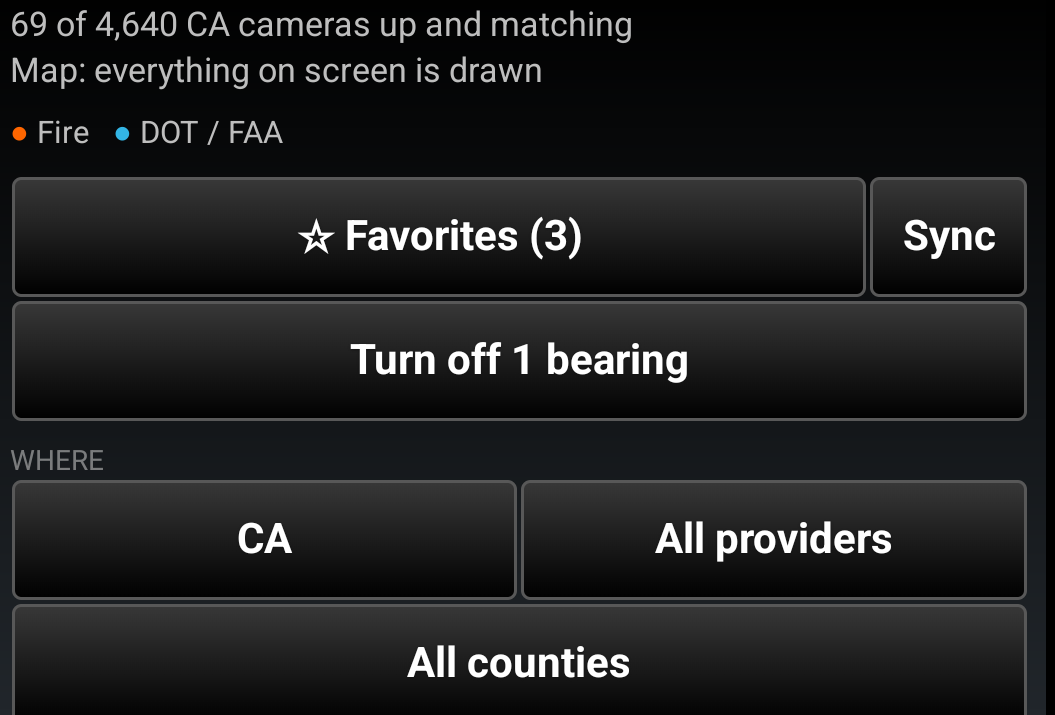
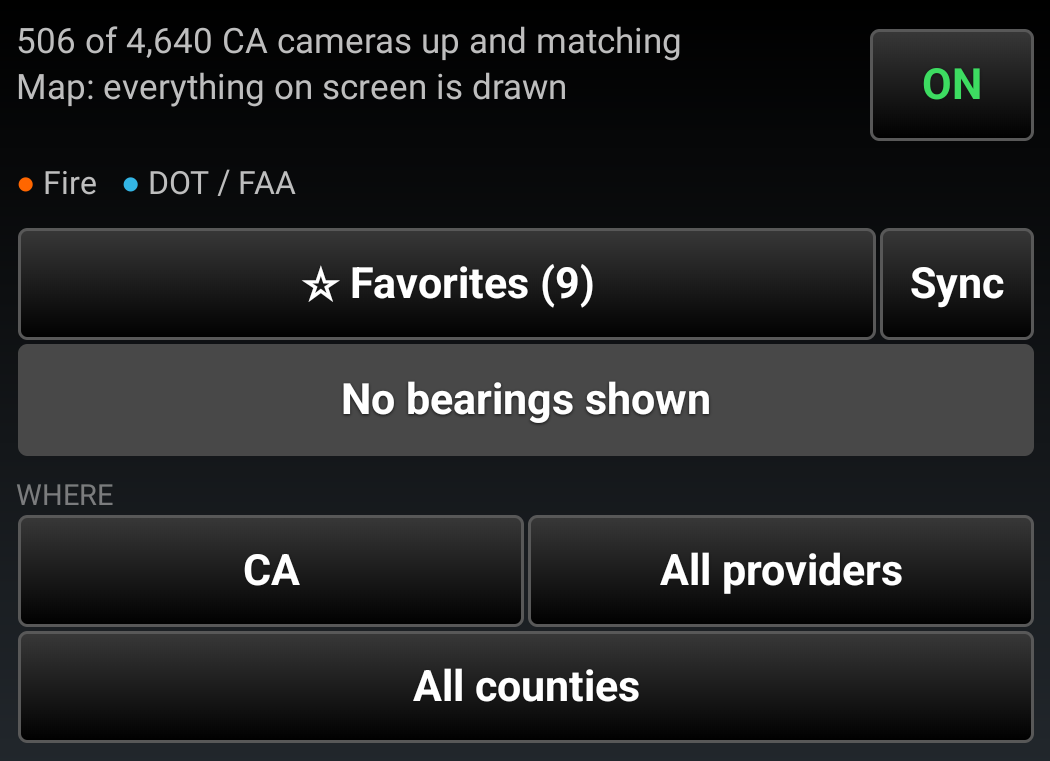
CamDepot 1.2: an ON / OFF switch for the map, pinned at the top of the pane
A button at the top right of the pane, beside the status line and outside the
list, so it never scrolls out of view the way the filter header does. ON, in
green, draws the cameras the filters select, which is how the plugin has always
behaved and is the default. OFF, in red, takes every camera off the map and
changes nothing else: filters, list and bearing requests all stay, so ON puts
back exactly what was there. Same treatment as Traffic's ON / OFF, down to the
colors.

OFF goes through the layer's viewport redraw rather than a visibility flip, so
it is the same batched path as every camera scrolling off screen at once. The
state is remembered with the other pane settings, and the status line says
"Map: off" while it is off.

Guide and manual gain an "On and off" section with two pane shots; the top-of-
panel shot is retaken with the switch in it. Version 1.2 in the README, guide,
manual and build.

diff --git a/app/src/main/java/com/atakmap/android/camdepot/ui/CamDepotPane.java b/app/src/main/java/com/atakmap/android/camdepot/ui/CamDepotPane.java
@@ -100,6 +100,19 @@ public final class CamDepotPane implements CameraStore.Listener {
     private Button radiusFromButton;
     private Button radiusPresetButton;
     private final Button bearingsOffButton;
+    /**
+     * The pinned ON / OFF toggle at the top right of the pane, beside the status
+     * line. Outside the list, so it never scrolls out of view the way the header
+     * controls do.
+     *
+     * <p>ON draws the cameras the filters select; OFF takes every one of them off
+     * the map and leaves the pane alone -- the filters, the list and the bearing
+     * requests all stay, so ON puts back exactly what was there. It is the map's
+     * switch, not the pane's, the same as Traffic's ON / OFF for its overlay.
+     */
+    private final Button toggle;
+    /** Remembered across restarts, and on by default so nothing changes for anyone. */
+    private boolean toggleOn = true;
     private final EditText search;
     /**
      * Clears the search box, and is disabled while it is empty.
@@ -240,6 +253,7 @@ public final class CamDepotPane implements CameraStore.Listener {
         root = PluginLayoutInflater.inflate(pluginContext, R.layout.main_layout, null);
         status = root.findViewById(R.id.status);
         statusColor = status.getCurrentTextColor();
+        toggle = root.findViewById(R.id.toggle);
         list = root.findViewById(R.id.cameras);
         legend(root.findViewById(R.id.legend));
 
@@ -280,6 +294,10 @@ public final class CamDepotPane implements CameraStore.Listener {
         wire();
         updateFavoritesButton();
         updateBearingsOffButton();
+        updateToggleButton();
+        // Before any camera arrives, so a pane restored OFF never draws and then
+        // erases.
+        layer.setMapOn(toggleOn);
         // From the bar, not from zero. restoreUi() has already put the saved radius
         // on the slider; hard-coding 0 here set the VALUE back to off while leaving
         // the bar where it was, so the panel came back showing a slider at 11 miles
@@ -345,6 +363,18 @@ public final class CamDepotPane implements CameraStore.Listener {
     }
 
     private void wire() {
+        // Press for ON, press again for OFF. The button is the whole indicator.
+        toggle.setOnClickListener(new View.OnClickListener() {
+            @Override
+            public void onClick(View v) {
+                toggleOn = !toggleOn;
+                updateToggleButton();
+                layer.setMapOn(toggleOn);
+                rememberUi();
+                updateStatus();
+            }
+        });
+
         // Tapping a stills camera on the map opens the same picture the panel shows.
         layer.setOnStillTapped(new CameraLayer.OnStillTapped() {
             @Override
@@ -705,6 +735,7 @@ public final class CamDepotPane implements CameraStore.Listener {
     // saved coordinate would restore a radius drawn around somewhere the operator
     // has since left.
     private static final String PREF_FROM_MAP = "camdepot_radius_from_map";
+    private static final String PREF_MAP_ON = "camdepot_map_on";
 
     /**
      * Starting points, expressed as what the scale bar would read — the same
@@ -791,6 +822,7 @@ public final class CamDepotPane implements CameraStore.Listener {
             stillOnly.setChecked(p.getBoolean(PREF_STILL, false));
             inView.setChecked(p.getBoolean(PREF_IN_VIEW, false));
             favoritesFirst = p.getBoolean(PREF_FAV_FIRST, false);
+            toggleOn = p.getBoolean(PREF_MAP_ON, true);
             final int savedRadius = p.getInt(PREF_RADIUS, 0);
             radius.setProgress(savedRadius);
             if (p.getBoolean(PREF_FROM_MAP, false))
@@ -807,6 +839,7 @@ public final class CamDepotPane implements CameraStore.Listener {
                 + "|" + joinCounties()
                 + "|" + fireOnly.isChecked() + liveOnly.isChecked()
                 + stillOnly.isChecked() + inView.isChecked() + favoritesFirst
+                + toggleOn
                 + "|" + radius.getProgress() + (center != null);
     }
 
@@ -838,6 +871,7 @@ public final class CamDepotPane implements CameraStore.Listener {
                     .putBoolean(PREF_STILL, stillOnly.isChecked())
                     .putBoolean(PREF_IN_VIEW, inView.isChecked())
                     .putBoolean(PREF_FAV_FIRST, favoritesFirst)
+                    .putBoolean(PREF_MAP_ON, toggleOn)
                     .putInt(PREF_RADIUS, radius.getProgress())
                     .putBoolean(PREF_FROM_MAP, center != null)
                     .apply();
@@ -917,6 +951,17 @@ public final class CamDepotPane implements CameraStore.Listener {
         bearingsOffButton.setText(n == 0 ? "No bearings shown"
                 : String.format(Locale.US, "Turn off %d bearing%s",
                         n, n == 1 ? "" : "s"));
+    }
+
+    /**
+     * ON in green, OFF in red, on ATAK's ordinary dark button. The same treatment
+     * as Traffic's on/off buttons, so the two plugins read the same way. What it
+     * does to the map is {@link CameraLayer#setMapOn}.
+     */
+    private void updateToggleButton() {
+        toggle.setText(toggleOn ? R.string.toggle_on : R.string.toggle_off);
+        toggle.setTextColor(pluginContext.getResources().getColor(
+                toggleOn ? R.color.state_on : R.color.state_off));
     }
 
     // ---- following the operator -------------------------------------------
@@ -1505,7 +1550,11 @@ public final class CamDepotPane implements CameraStore.Listener {
                         ", %,d not listed \u2014 offline, still loading, or not "
                                 + "matching the search", gone));
         }
-        if (!layer.isWithinZoom())
+        // OFF first: it overrides the zoom gate and the cap, and the count line
+        // above still reads "up and matching", which is true of the list.
+        if (!toggleOn)
+            msg.append("\nMap: off — press ON to draw the cameras");
+        else if (!layer.isWithinZoom())
             msg.append("\nMap: none drawn — zoom in past your threshold");
         else if (layer.getOmitted() > 0)
             msg.append(String.format(Locale.US,

diff --git a/app/src/main/java/com/atakmap/android/camdepot/map/CameraLayer.java b/app/src/main/java/com/atakmap/android/camdepot/map/CameraLayer.java
@@ -14,6 +14,7 @@ import com.atakmap.coremap.maps.coords.GeoPoint;
 import com.atakmap.map.AtakMapView;
 
 import java.util.ArrayList;
+import java.util.Collections;
 import java.util.HashMap;
 import java.util.HashSet;
 import java.util.List;
@@ -228,6 +229,11 @@ public final class CameraLayer {
     private double maxResolution = 500;
     private double rangeMeters = DEFAULT_RANGE_M;
     private boolean gateEnabled = true;
+    /**
+     * The pane's ON / OFF toggle. Off means the map draws nothing, whatever the
+     * filters selected; {@link #selected} is kept, so ON puts the same cameras back.
+     */
+    private boolean mapOn = true;
 
     private final android.os.Handler main =
             new android.os.Handler(android.os.Looper.getMainLooper());
@@ -297,6 +303,28 @@ public final class CameraLayer {
         applyZoomGate();
     }
 
+    // ---- the pane's ON / OFF ----------------------------------------------
+
+    /**
+     * Take every camera off the map, or put the selection back.
+     *
+     * <p>Goes through {@link #drawVisible()} rather than a visibility flip, so OFF
+     * is the same path as every camera scrolling out of the viewport at once:
+     * markers and their bearing lines are removed in batches, video entries and
+     * bearing <em>requests</em> are kept, and ON redraws exactly as a pan back
+     * would. Nothing new to get wrong.
+     */
+    public void setMapOn(boolean on) {
+        if (mapOn == on)
+            return;
+        mapOn = on;
+        drawVisible();
+    }
+
+    public boolean isMapOn() {
+        return mapOn;
+    }
+
     /**
      * A hair of tolerance, and it is load bearing.
      *
@@ -356,7 +384,8 @@ public final class CameraLayer {
     public void drawVisible() {
         final GeoBounds view = padded(mapView.getBounds());
         final List<Camera> want = new ArrayList<>();
-        for (Camera c : selected) {
+        // OFF wants nothing on screen; apply() then removes whatever is there.
+        for (Camera c : mapOn ? selected : Collections.<Camera>emptyList()) {
             if (view == null || view.intersects(c.lat, c.lon, c.lat, c.lon))
                 want.add(c);
         }

diff --git a/docs/USER_GUIDE.md b/docs/USER_GUIDE.md
@@ -1,12 +1,12 @@
 # Cam Depot for ATAK — User Guide
 
-**Version 1.1 · takwerx**
+**Version 1.2 · takwerx**
 
-**Download Cam Depot 1.1** (pick the one matching your ATAK-CIV version, sideload, then load it in ATAK's Plugins manager):
+**Download Cam Depot 1.2** (pick the one matching your ATAK-CIV version, sideload, then load it in ATAK's Plugins manager):
 
-- **ATAK-CIV 5.6:** https://github.com/takwerx/cam-depot/releases/download/v1.1/ATAK-Plugin-CamDepot-1.1--5.6.0-civ-release.apk
-- **ATAK-CIV 5.7:** https://github.com/takwerx/cam-depot/releases/download/v1.1/ATAK-Plugin-CamDepot-1.1--5.7.0-civ-release.apk
-- **ATAK-CIV 5.8:** https://github.com/takwerx/cam-depot/releases/download/v1.1/ATAK-Plugin-CamDepot-1.1--5.8.0-civ-release.apk
+- **ATAK-CIV 5.6:** https://github.com/takwerx/cam-depot/releases/download/v1.2/ATAK-Plugin-CamDepot-1.2--5.6.0-civ-release.apk
+- **ATAK-CIV 5.7:** https://github.com/takwerx/cam-depot/releases/download/v1.2/ATAK-Plugin-CamDepot-1.2--5.7.0-civ-release.apk
+- **ATAK-CIV 5.8:** https://github.com/takwerx/cam-depot/releases/download/v1.2/ATAK-Plugin-CamDepot-1.2--5.8.0-civ-release.apk
 
 All releases: https://github.com/takwerx/cam-depot/releases
 
@@ -55,6 +55,9 @@ whole catalog.
 - **Provider** — one agency within it.
 - **County** — as many counties as the job covers.
 - **On screen only** — just what is in the current map view.
+
+The **ON / OFF** button at the top right, above **Sync**, is the map's switch.
+It is covered under [Drawing on the map](#9-drawing-on-the-map).
 
 ### State and provider
 
@@ -303,6 +306,23 @@ And the panel always says what the map is doing:
 
 If more cameras match than can be drawn legibly, the panel says how many were left
 off and to zoom in. It will not quietly show you part of the picture.
+
+### On and off
+
+The **ON / OFF** button at the top right of the panel is the map's switch. It
+stays in view however far the panel is scrolled.
+
+![The map on](screenshots/28_map_on.png)
+
+**ON**, in green, draws the cameras the panel selects, which is how the plugin
+has always behaved. **OFF**, in red, takes every one of them off the map and
+changes nothing else: the filters, the list and any bearings you asked for stay
+as they are, so ON puts back exactly what was there.
+
+![The map off](screenshots/29_map_off.png)
+
+Use it to clear the map for a moment without losing the setup. The status line
+says "Map: off" while it is off, and the switch is remembered across restarts.
 
 ---
 

diff --git a/README.md b/README.md
@@ -1,10 +1,10 @@
 ATAK Plugin — Cam Depot
 
-**Download Cam Depot 1.1** (pick the one matching your ATAK-CIV version, sideload, then load it in ATAK's Plugins manager):
+**Download Cam Depot 1.2** (pick the one matching your ATAK-CIV version, sideload, then load it in ATAK's Plugins manager):
 
-- **ATAK-CIV 5.6:** https://github.com/takwerx/cam-depot/releases/download/v1.1/ATAK-Plugin-CamDepot-1.1--5.6.0-civ-release.apk
-- **ATAK-CIV 5.7:** https://github.com/takwerx/cam-depot/releases/download/v1.1/ATAK-Plugin-CamDepot-1.1--5.7.0-civ-release.apk
-- **ATAK-CIV 5.8:** https://github.com/takwerx/cam-depot/releases/download/v1.1/ATAK-Plugin-CamDepot-1.1--5.8.0-civ-release.apk
+- **ATAK-CIV 5.6:** https://github.com/takwerx/cam-depot/releases/download/v1.2/ATAK-Plugin-CamDepot-1.2--5.6.0-civ-release.apk
+- **ATAK-CIV 5.7:** https://github.com/takwerx/cam-depot/releases/download/v1.2/ATAK-Plugin-CamDepot-1.2--5.7.0-civ-release.apk
+- **ATAK-CIV 5.8:** https://github.com/takwerx/cam-depot/releases/download/v1.2/ATAK-Plugin-CamDepot-1.2--5.8.0-civ-release.apk
 
 All releases: https://github.com/takwerx/cam-depot/releases
 
@@ -59,7 +59,7 @@ source submission zip).
 _________________________________________________________________
 STATUS
 
-Release candidate. Version 1.1.
+Release candidate. Version 1.2.
 
 Exercised on hardware: Samsung Galaxy XCover Pro (ATAK-CIV 5.8.0.3). Panel,
 filters, favorites, camera imagery, live video, bearing lines and the zoom
